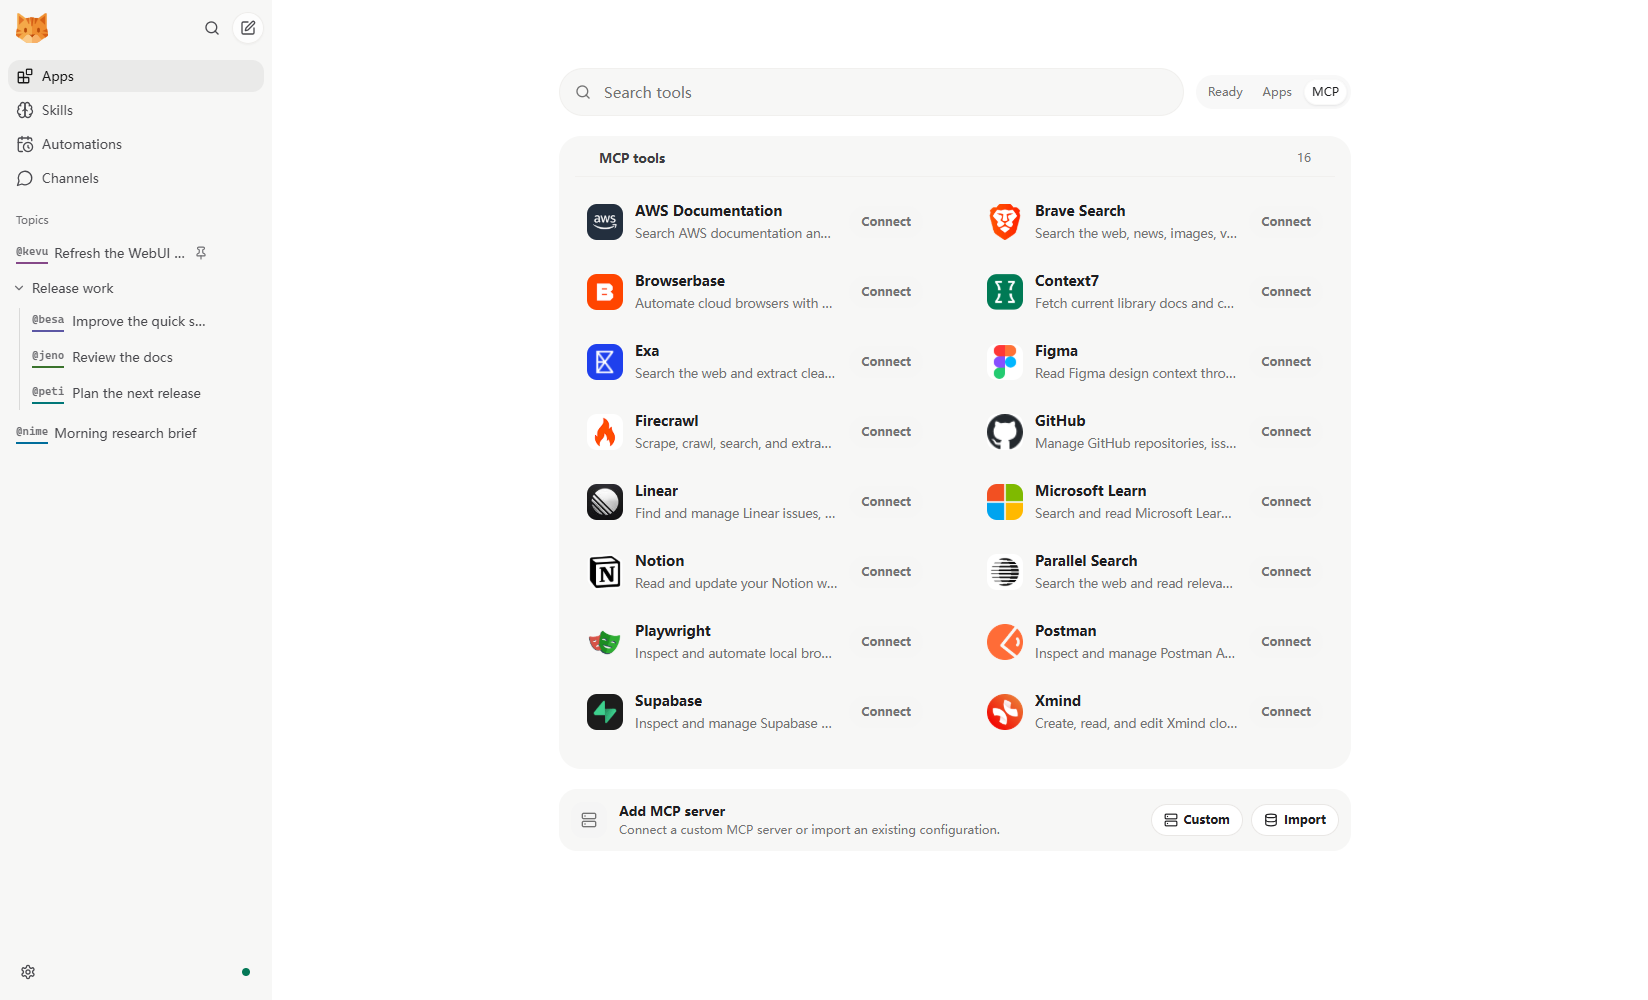
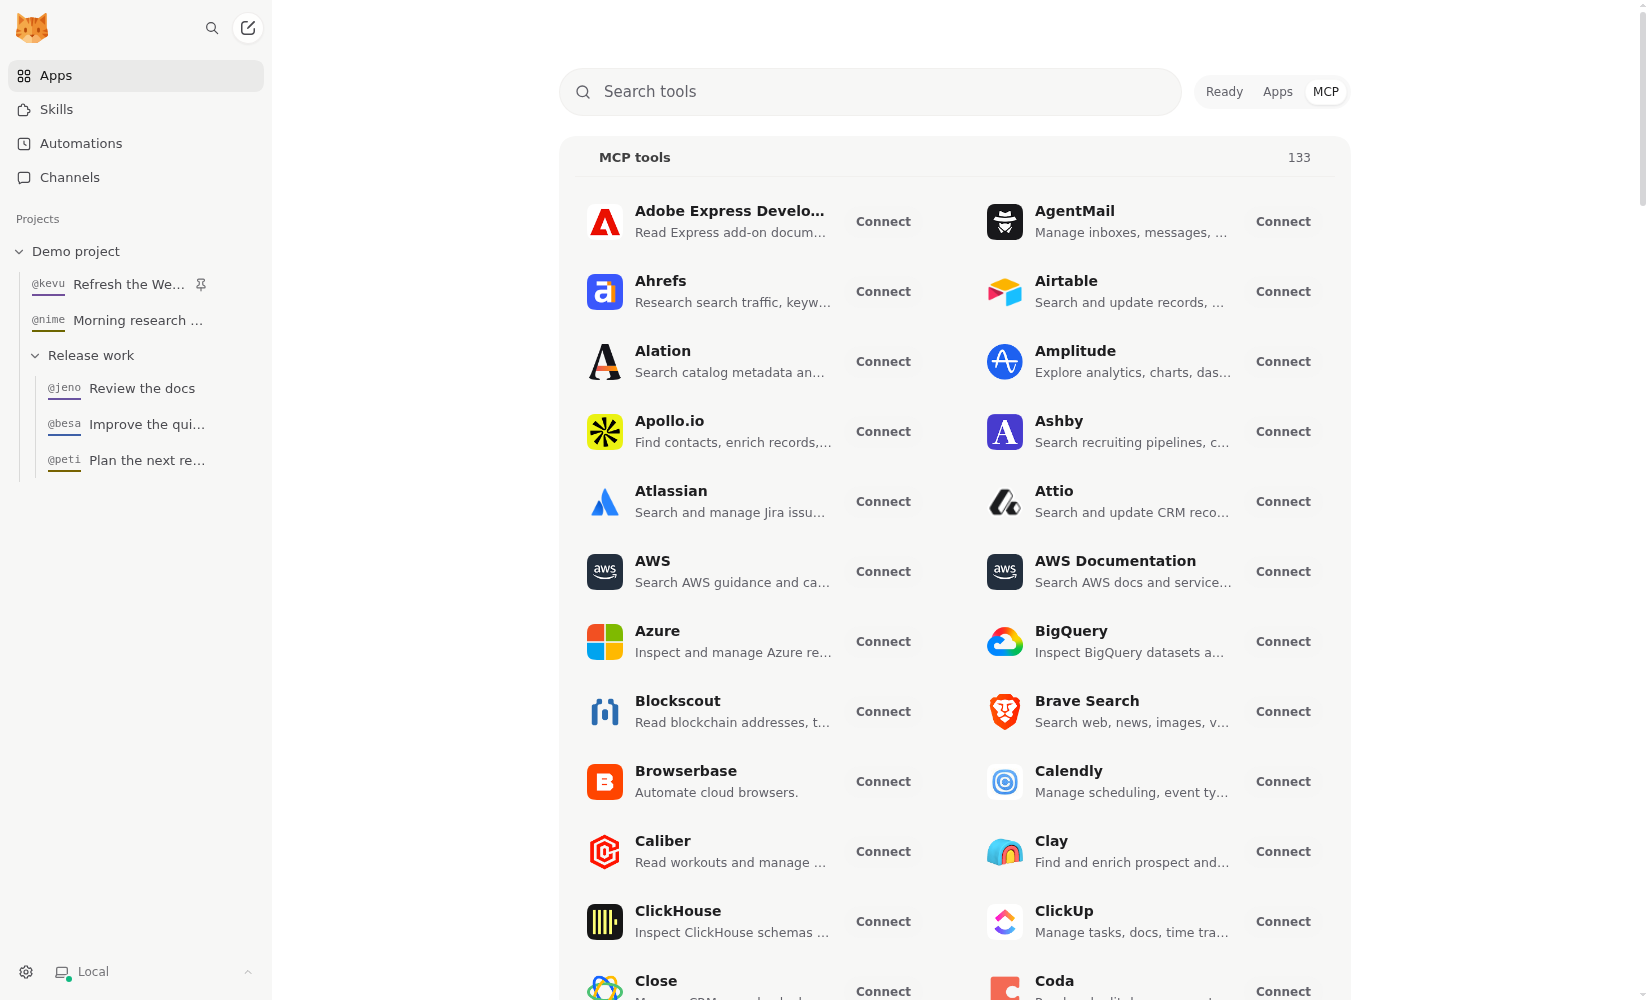
docs: refresh README news and WebUI gallery

diff --git a/README.md b/README.md
@@ -226,7 +226,7 @@ Keep the launcher terminal open while using the browser. It starts or joins the 
 
 1. Open **Settings → Models** and save a provider/model preset with your credential or supported sign-in. See [model setup](./docs/quick-start.md#2-configure-your-model) if you need the full steps.
 2. Start a new topic and send `Hello!` to verify the model connection.
-3. To try file work, put a copy of `notes.txt` in a practice folder, select that folder and **Restricted** access, and ask: "Read notes.txt and write a short summary to summary.md." Open `summary.md` in that folder to check the result. See [Your first file task](./docs/start-without-technical-background.md#your-first-file-task).
+3. To try file work, put a copy of `notes.txt` in a practice folder, select that folder and **Default Permission** (workspace-only access), and ask: "Read notes.txt and write a short summary to summary.md." Open `summary.md` in that folder to check the result. See [Your first file task](./docs/start-without-technical-background.md#your-first-file-task).
 
 A normal reply verifies the provider/model and browser connection. The file task separately checks the selected project and its file permissions. Attaching a file sends it to the conversation; it does not change the selected project folder.
 
@@ -379,20 +379,29 @@ Prefer your own infrastructure? Follow the [deployment guide](./docs/deployment.
 
 The WebUI ships **inside the published wheel** with no separate frontend build. It is the browser workbench for persistent topics, temporary chats, visible agent activity, workspace controls, Apps, Skills, Automations, and settings. Start it with `nanobot webui`. WebUI access grants administration of the same agent instance; share it only with trusted operators. See [Sharing access](./docs/webui.md#sharing-access).
 
-The screenshots below use example conversations, illustrative token counts, and paused schedules.
+The screenshots below show the current source WebUI with example conversations, illustrative token counts, and paused schedules.
 
 <p align="center">
   <a href="./images/nanobot_webui-source.png">
-    <img src="./images/nanobot_webui.png" alt="nanobot WebUI new-topic screen with the hero composer, workspace access, project, and model controls" width="900">
+    <img src="./images/nanobot_webui.png" alt="nanobot WebUI new-topic screen with project-grouped topics, the composer, workspace access, and model controls" width="900">
   </a>
 </p>
+
+<details>
+<summary>Mobile WebUI · dark theme</summary>
+
+<p align="center">
+  <img src="./images/nanobot-mobile.png" alt="Mobile WebUI in dark theme with a saved conversation, model controls, context usage, and workspace-only permissions" width="390">
+</p>
+
+</details>
 
 Use it to:
 
 - keep separate topics for different tasks and projects;
 - use temporary chats when a conversation should not be saved to history or memory;
 - inspect reasoning, tool calls, file edits, diffs, command output, and generated artifacts;
-- switch models and workspaces without leaving the conversation;
+- switch model presets and choose a project before starting a topic;
 - configure models in **Settings**, connect chat platforms in **Channels**, and manage Apps, Skills, and Automations.
 
 ### Keep related work side by side
@@ -407,7 +416,7 @@ Choose a project, access mode, and model for each task. Topics separate conversa
 
 ### Inspect the work and its context
 
-Expand agent activity to see reasoning, tool calls, and file changes. Switch **Settings → Appearance → File edit display** to **Diff** for inline patches. The composer's context indicator shows the current context size, input tokens by round, and cache reuse when the provider reports it.
+Expand agent activity to see reasoning, tool calls, and file changes. Switch **Settings → Appearance → Edit preview** to **Diff** for inline patches. The composer's context indicator shows the current context size, input tokens by round, and cache reuse when the provider reports it.
 
 <p align="center">
   <img src="./images/nanobot-context.png" alt="An expanded file-edit diff above the context usage chart, with input tokens and cache reuse shown across four rounds" width="900">
@@ -420,7 +429,7 @@ Context compaction also appears in the conversation timeline. [Explore activity 
 Use Apps to connect MCP servers, enable Agent Plugins, and manage local CLI App adapters. Add a preset or a custom server, then attach an available tool with `@`. Skills provide reusable instructions. **Settings** holds model, voice, image, and web setup; **Channels** handles chat-platform connections.
 
 <p align="center">
-  <img src="./images/nanobot-apps.png" alt="The Apps MCP catalog with integration presets and controls to add or import a custom MCP server" width="900">
+  <img src="./images/nanobot-apps.png" alt="The Apps MCP catalog with searchable integration presets and Connect actions" width="900">
 </p>
 
 [Explore Apps →](./docs/webui.md#apps) · [Discover Skills →](./docs/webui.md#skills) · [Connect chat apps →](./docs/guides/chat-app-ai-agent.md)
@@ -432,12 +441,12 @@ Before connecting a personal bot to shared channels, check the platform's DM pai
 Ask for an automation from the topic that should receive its results. Use **Tasks** to review and manage schedules, or **Calendar** to scan completed and upcoming runs by date. Local triggers let a script start a saved task on demand.
 
 <p align="center">
-  <img src="./images/nanobot-automations.png" alt="The Automations calendar with completed and upcoming recurring tasks arranged by date" width="900">
+  <img src="./images/nanobot-automations.png" alt="The Automations calendar with example completed runs arranged by date" width="900">
 </p>
 
 Keep the gateway running and the host awake for scheduled delivery. Missed scheduled times are not replayed after a gateway restart. See [delivery and recovery rules](./docs/automations.md#delivery-and-reliability). [Explore Automations →](./docs/automations.md)
 
-For a conversation that should stay out of saved topic history and long-term memory, use [Temporary chat](./docs/webui.md#temporary-chats) from the header. Temporary chats end when the connection closes and use the default workspace in Restricted mode. Requests still go to the configured model provider, and files created by tools remain after the chat closes.
+For a conversation that should stay out of saved topic history and long-term memory, use [Temporary chat](./docs/webui.md#temporary-chats) from the header. Temporary chats end when the connection closes and use the default workspace with workspace-only permissions. Requests still go to the configured model provider, and files created by tools remain after the chat closes.
 
 See the [WebUI guide](./docs/webui.md) for LAN access, background operation, workspace controls, and the full feature tour. Working on the frontend itself? Use [`webui/README.md`](./webui/README.md).
 
@@ -468,24 +477,29 @@ Browse the [repo docs](./docs/README.md) for current source documentation, or vi
 
 ## Releases
 
-**Latest release: [v0.3.5](https://github.com/HKUDS/nanobot/releases/tag/v0.3.5)**
+**Latest release: [v0.4.0](https://github.com/HKUDS/nanobot/releases/tag/v0.4.0)**
 
-v0.3.5 brings the workbench to the terminal and makes conversations easier to continue across the browser, terminal, and chat apps.
+v0.4.0 makes everyday work easier to continue, with durable conversation history, a more capable browser workbench, and diagrams in the terminal.
 
-- Use the native terminal workbench with the same gateway and saved conversations as the WebUI.
-- Arrange up to four browser conversations side by side, mention saved sessions, or open a temporary chat.
-- Inspect per-round context usage and compaction progress, with more durable history and recovery.
-- Discover Skills, connect Apps, and manage scheduled work through expanded WebUI flows.
+- Keep model and browser conversation history in SQLite, with imports of existing conversations and retained source backups.
+- Navigate prompt history, search loaded messages and session handles, and keep delegated tasks within reach.
+- Work with local-file and video attachments, image thumbnails, file cards, and improved mobile and reading controls.
+- Connect remote instances, inspect Mermaid diagrams in the terminal, and edit or pause scheduled tasks in place.
 
-[Read the v0.3.5 release notes and upgrade notes](https://github.com/HKUDS/nanobot/releases/tag/v0.3.5)
+Upgrade through your original installation method and back up the complete stopped instance first. In-app automatic installation is not enabled for this release yet. See [Updating nanobot](./docs/updating.md) and the [v0.4.0 release notes and upgrade notes](https://github.com/HKUDS/nanobot/releases/tag/v0.4.0).
 
 ## Recent Updates
 
-- **2026-09-19** 🔎 Searchable provider setup, consistent provider identities, and smoother Linear onboarding.
-- **2026-09-18** ♻ Clearer recovery for interrupted work and Discord reply-context support.
-- **2026-09-16** 📦 Platform wheels bundle the version-matched native terminal UI.
-- **2026-09-15** 🚀 Released [v0.3.5](https://github.com/HKUDS/nanobot/releases/tag/v0.3.5) with a shared terminal workbench, multi-pane WebUI, and visible context continuity.
-- **2026-09-07** 🔌 WeCom media uploads use the SDK API, and CI skips unrelated jobs.
+- **2026-10-28** 🚀 Released [v0.4.0](https://github.com/HKUDS/nanobot/releases/tag/v0.4.0) with durable conversation history, remote WebUI connections, richer attachments, and terminal diagrams.
+- **2026-10-27** 🗂 Batch topic archiving, clearer mentions, and preserved partial replies after model failures.
+- **2026-10-26** 🧰 WebUI `!` shell commands show literal output; delegated tasks and their details stay within reach.
+- **2026-10-25** ⏰ Edit or pause scheduled tasks and inspect recent runs; Ctrl+K searches loaded messages and session handles.
+- **2026-10-24** ⚡ Smaller native terminal builds, Kimi K3.1 Pro support, and corrected API session routing.
+- **2026-10-23** 🧭 Compact workspace controls, MiniMax-M3.1-Flash support, and corrected DeepSeek reasoning replay.
+- **2026-10-22** 📎 Local-file and video attachments, shared proxy settings for remote MCP, and idle-compaction controls.
+- **2026-10-21** 🔄 Shared SQLite history storage and update review in About, with in-app installation gated on verified release approval.
+- **2026-10-20** 🖼 Mermaid diagrams in the terminal, QQ QR-code setup, and reading-size preferences.
+- **2026-10-19** 🔍 DeepSeek Search, WebUI Mermaid diagrams, and first-run Docker Compose onboarding.
 
 For earlier updates, see the [release archive](./docs/release-archive.md) or [GitHub releases](https://github.com/HKUDS/nanobot/releases).
 

diff --git a/docs/release-archive.md b/docs/release-archive.md
@@ -6,6 +6,44 @@ For tagged releases, see [GitHub Releases](https://github.com/HKUDS/nanobot/rele
 
 ## Highlights
 
+- **2026-10-28** 🚀 Released [v0.4.0](https://github.com/HKUDS/nanobot/releases/tag/v0.4.0), with remote WebUI connections, SQLite conversation storage, richer attachments and diagrams, and expanded channel support.
+- **2026-10-27** 🗂 Batch topic archiving and clearer WebUI mentions; reply text streamed before model failures is retained for later context.
+- **2026-10-26** 🧰 WebUI `!` shell-command completion and literal output; delegated tasks and their details stay within reach.
+- **2026-10-25** ⏰ Agent tools can edit, enable or disable scheduled tasks and inspect recent runs; Ctrl+K searches loaded message text and session handles.
+- **2026-10-24** ⚡ Smaller target-specific terminal builds, Kimi K3.1 Pro parameter support, and corrected API session routing.
+- **2026-10-23** 🧭 Compact WebUI workspace toolbar, MiniMax-M3.1-Flash support, and corrected DeepSeek Responses reasoning replay.
+- **2026-10-22** 📎 Local-file attachments and video playback in WebUI, shared proxy settings for remote MCP, and UI controls for idle-compaction timing.
+- **2026-10-21** 🔄 WebUI history joins the shared SQLite store; About adds update review and installation-owner guidance, with in-app installation gated on verified release approval.
+- **2026-10-20** 🖼 Mermaid diagrams as terminal images, QQ QR-code setup, and WebUI reading-size preferences.
+- **2026-10-19** 🔍 DeepSeek Search, WebUI Mermaid diagrams, and Docker Compose first-run onboarding without a preconfigured model.
+- **2026-10-18** 📬 WhatsApp Agent Platform channel, complete prompt-history navigation, and Markdown file previews with a source toggle.
+- **2026-10-17** 📬 Scheduled channel results gain bounded retry after confirmed pre-send failures; context compaction considers provider-reported token usage.
+- **2026-10-16** 🗃 SQLite-backed session state with legacy JSONL import, separate shell wait/inactivity/runtime limits, and more reliable WebUI reconnection and queued prompts.
+- **2026-10-15** 🔐 Plugin skills load from approved content snapshots, and context compaction is serialized with turns in the same session.
+- **2026-10-14** 🔌 Expanded MCP service presets, streamed bounded file-diff previews, and correct handling of supported Kimi K3 reasoning efforts.
+- **2026-10-13** 📚 Bundled documentation helps nanobot answer usage and setup questions, and PPTX extraction retains empty table columns.
+- **2026-10-12** ⚙ Per-preset request overrides, plus reusable named custom connections and separate headers/body settings for image generation.
+- **2026-10-11** 🧭 Model/provider setup is integrated into preset editing, and model requests receive current workspace-access context.
+- **2026-10-10** ⚙ Explicit request API choices for presets and custom providers, plus `--home` to select an instance directory.
+- **2026-10-09** 💬 QQ quoted-message context, slash-prefixed paths kept in normal chat, and simpler interface wording across locales.
+- **2026-10-08** 🗂 WebUI host directory picker, binary HTTP attachment uploads, and Codex Responses WebSocket continuation.
+- **2026-10-07** ⏰ Scheduled-task chat changes can be reviewed before saving, and run history links to the conversation used for each run.
+- **2026-10-06** 🐛 Improved layouts for wide equations, plus source-commit links and prefilled bug-report diagnostics in About.
+- **2026-10-05** 🤝 Session-owned subtask messaging and cancellation, plus XLSX reads beyond incorrect declared dimensions.
+- **2026-10-04** 📱 Touch-keyboard Enter inserts a newline, send-button guidance can interject into active replies, and mobile composer menus stay within the viewport.
+- **2026-10-03** 📝 File creation preserves supplied newlines, Telegram links retain their URLs, and shell hard timeouts are enforced without polling.
+- **2026-10-02** 🌐 Connect the WebUI to existing remote nanobot instances, with host identity, pairing, connection management and recovery.
+- **2026-09-30** 🔔 Global context-compaction notice settings with per-channel overrides, and configured provider fallbacks for insufficient-credit errors.
+- **2026-09-29** 🖥 Terminal-default colors keep unknown themes readable, and keyboard navigation reaches overflow choices in pickers.
+- **2026-09-28** 🔎 File search uses ripgrep when installed, terminal history restores from canonical events, and WebUI Codex title generation is restored.
+- **2026-09-27** 📜 Earlier WebUI history loading gains retry states, and Responses streams stop on terminal events.
+- **2026-09-26** 🔌 Linear member access management and browser authorization improvements, plus complete paginated MCP tool discovery.
+- **2026-09-25** 💬 WebUI restores text drafts in saved chats across navigation and reloads, and localizes agent activity.
+- **2026-09-24** 🔔 Opt-in completion sounds, custom context-window budgets, and restored session-scoped file previews in WebUI.
+- **2026-09-23** 🔗 Linear acknowledges sessions before downloading attachments; file searches stay scoped and resumable, and BOM-marked text is decoded correctly.
+- **2026-09-22** 🔗 Clickable Markdown links in the terminal, contextual WebUI message controls, and wrapping Markdown table content.
+- **2026-09-21** 💬 Temporary chats retain state during WebUI navigation, fallback replies are labeled, and Copilot device sign-in completes in the browser.
+- **2026-09-20** 💬 WebUI replies identify the fallback preset used; stopped follow-ups stay canceled after restarts, and local context-tail truncation is removed.
 - **2026-09-19** 🔌 Native Linear agent channel support, searchable provider setup, and consistent provider and channel identities across the WebUI.
 - **2026-09-18** ♻ Explicit recovery continuations, Discord reply-context support, and clearer channel setup before model configuration is complete.
 - **2026-09-17** 📬 Per-session inbox serialization preserves message order and queued-turn completion; stale compaction continuations and canceled automations no longer leak into later work.
